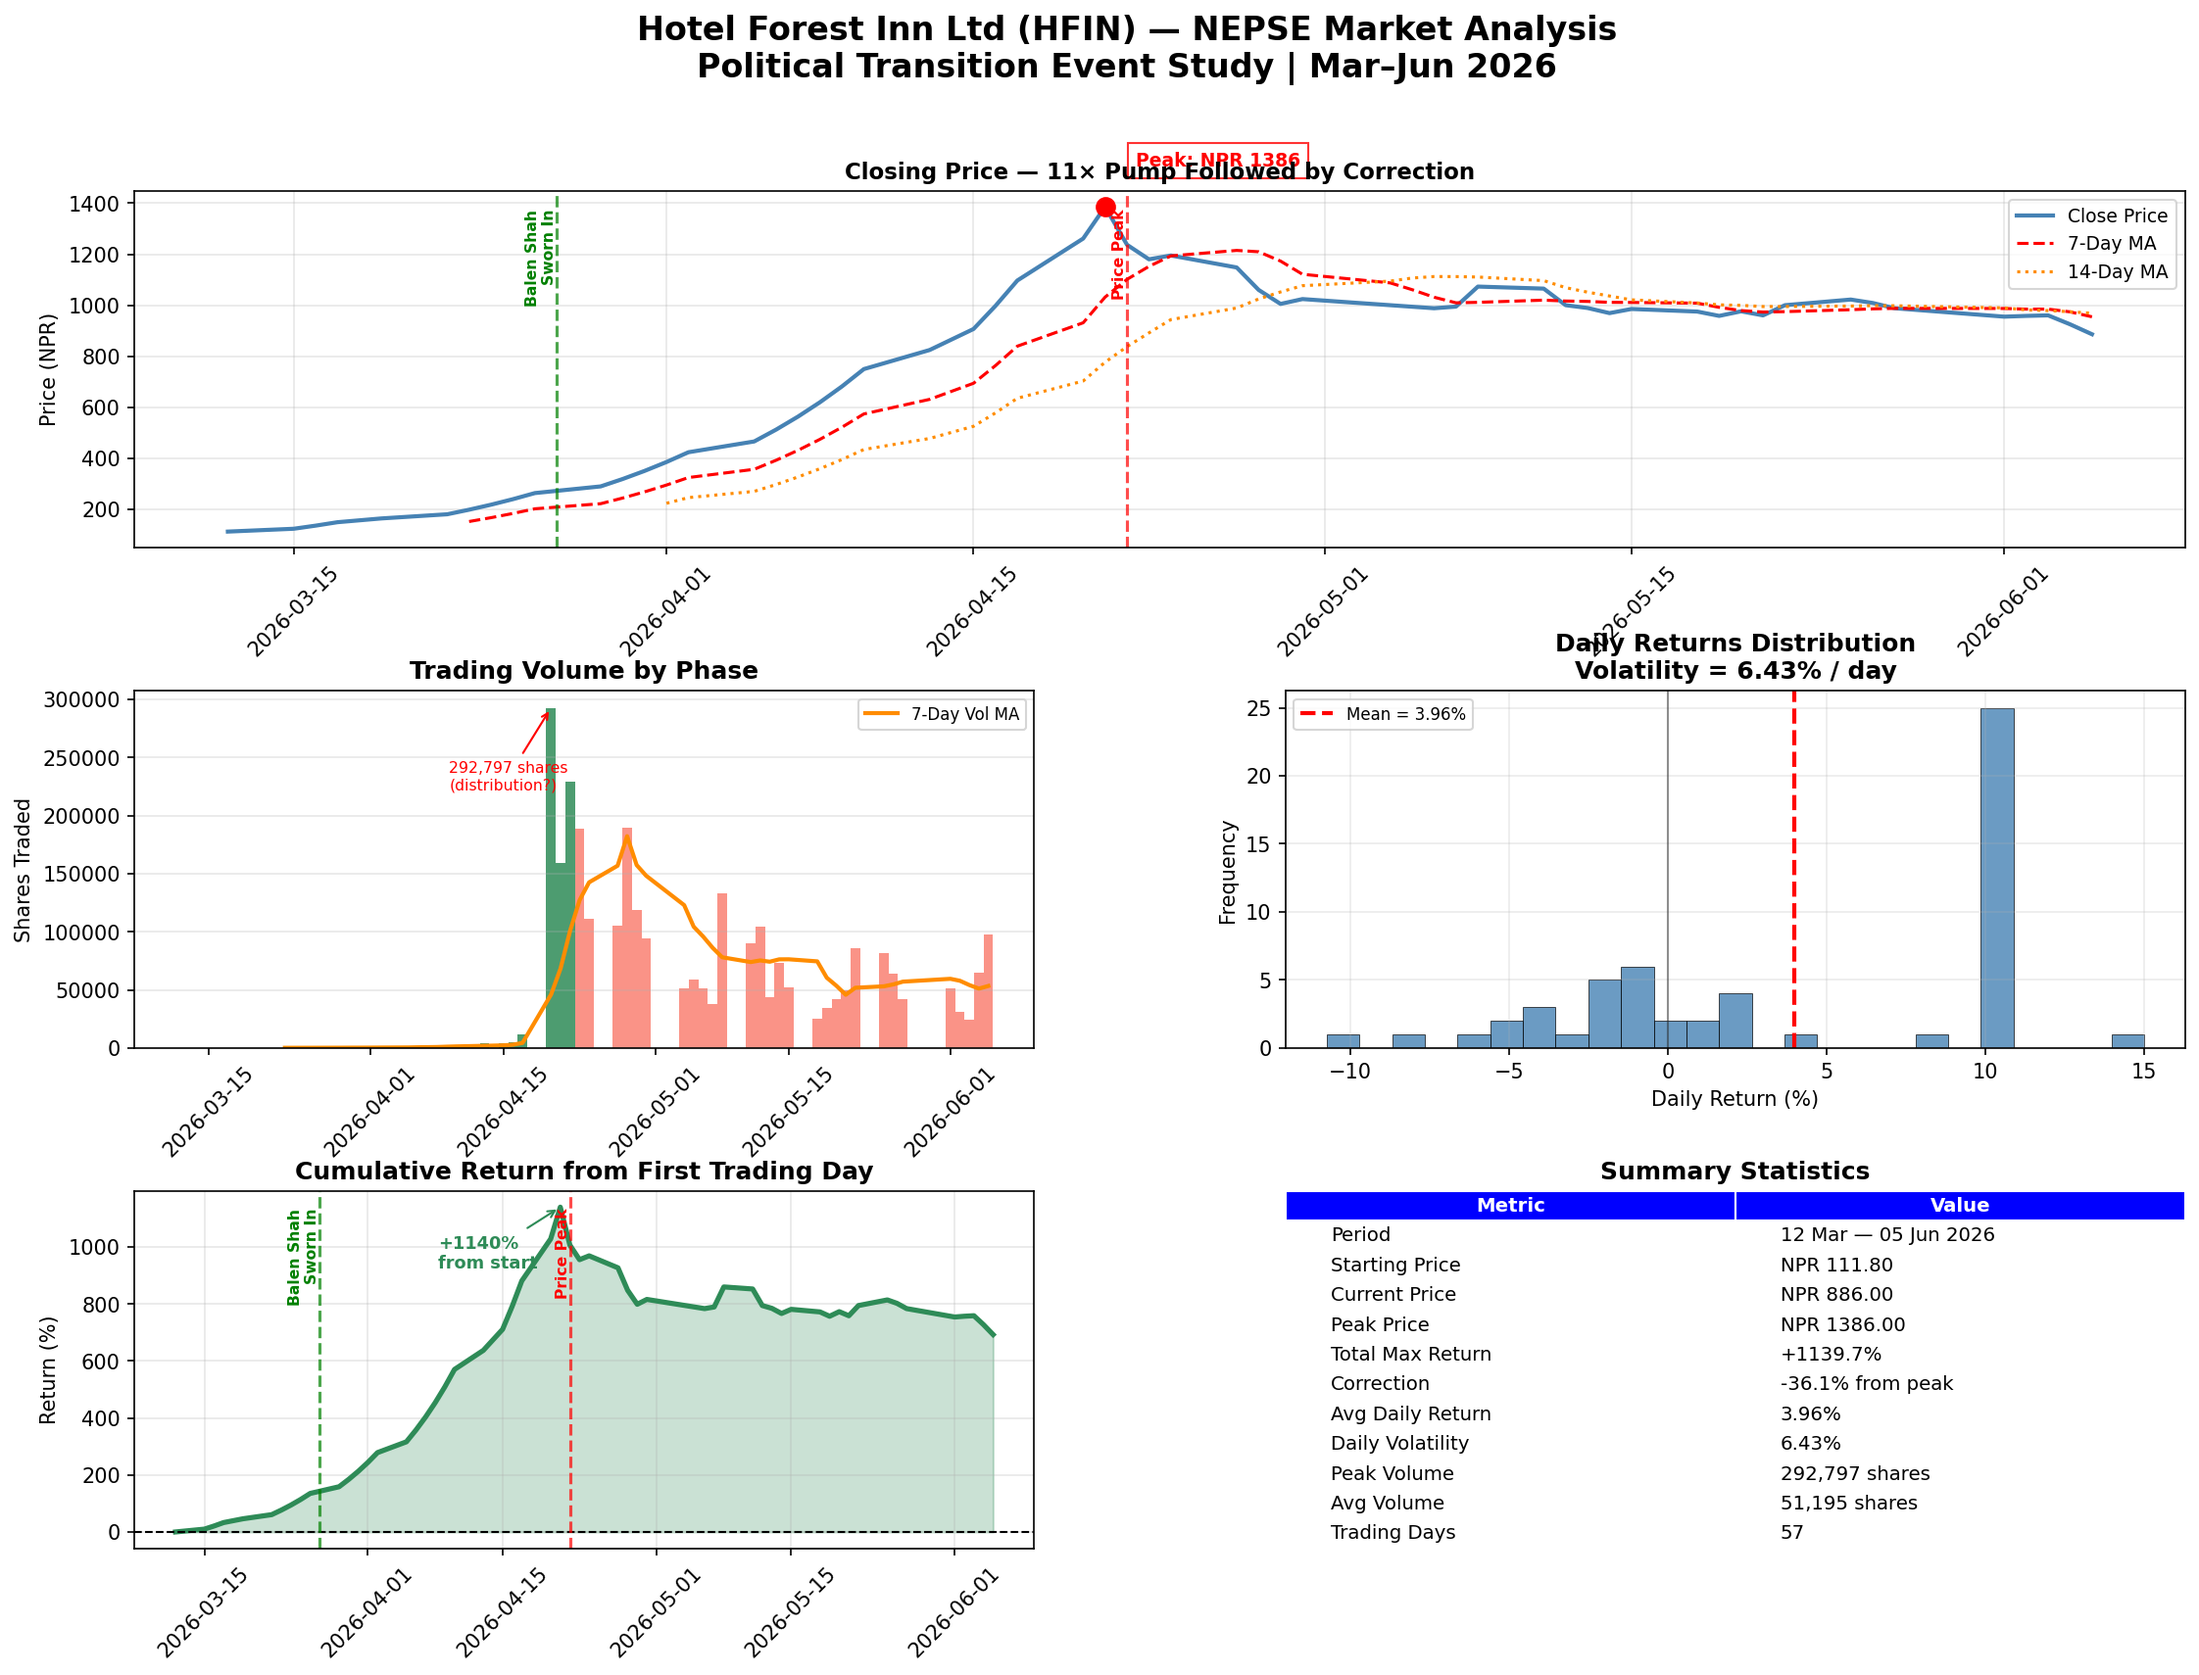
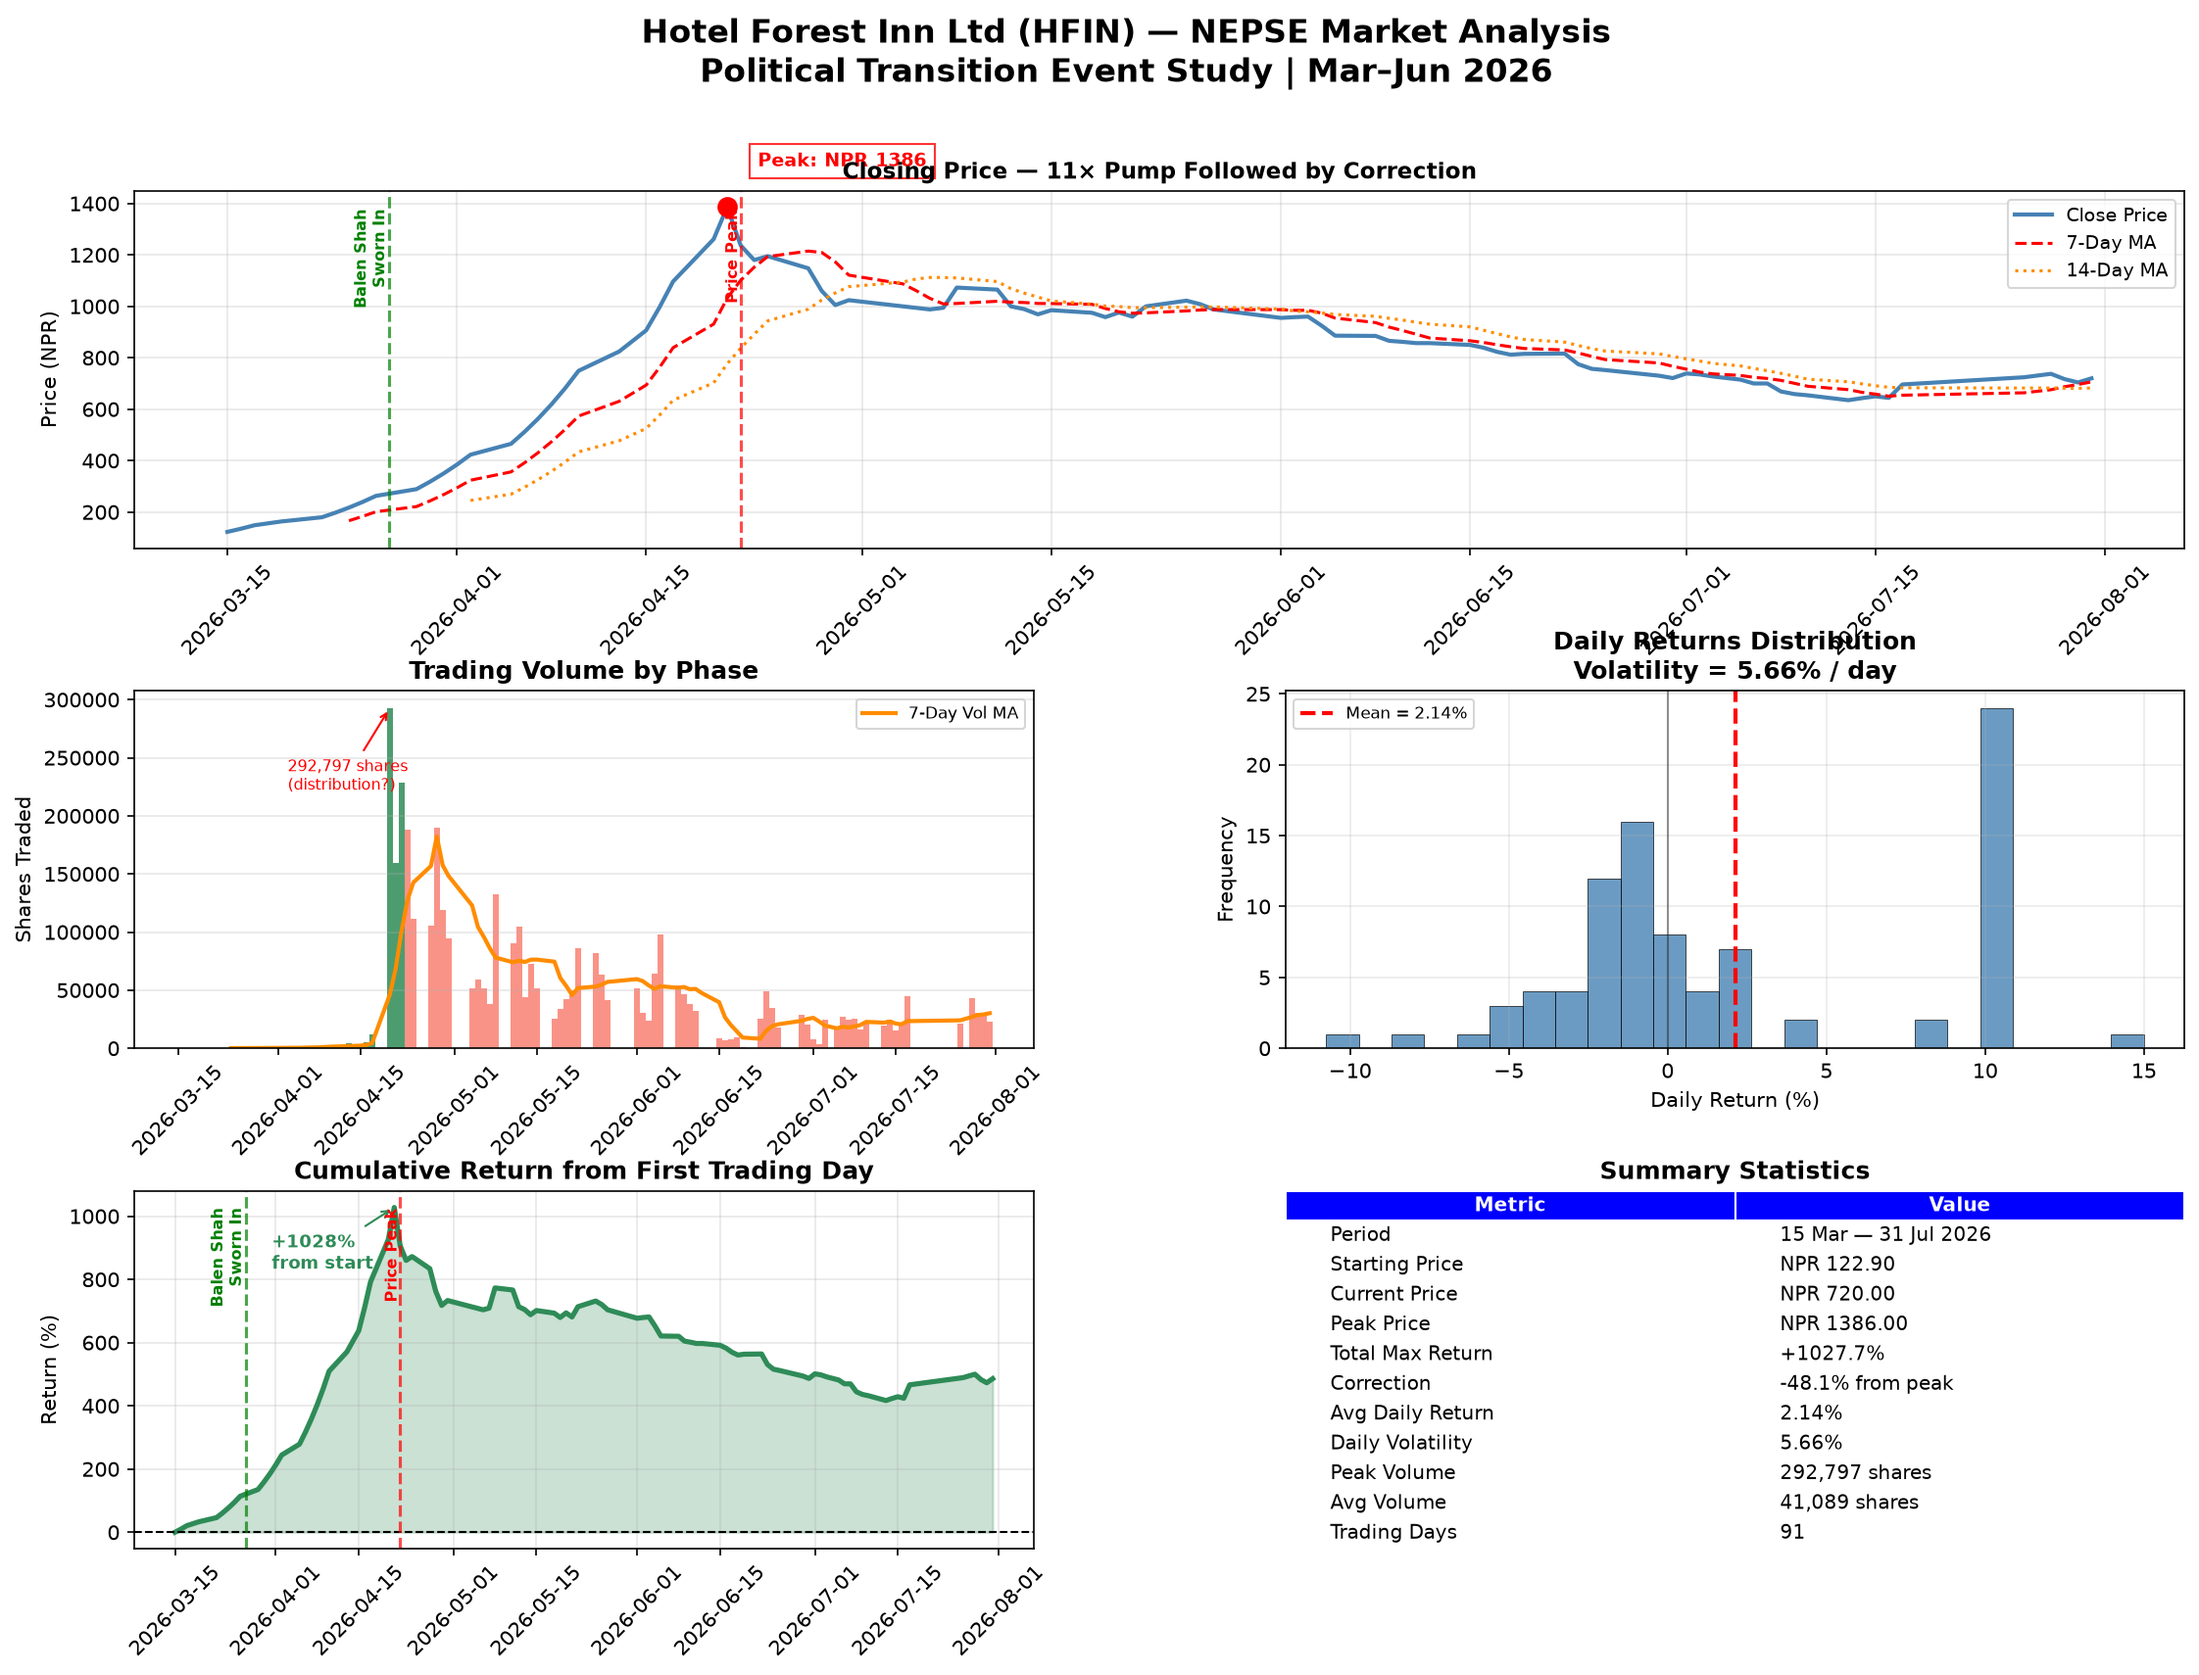
.
.

diff --git a/Hotel_Forest_Analysis.py b/Hotel_Forest_Analysis.py
@@ -4,9 +4,19 @@ import matplotlib.pyplot as ply
 from matplotlib.gridspec import GridSpec
 
 df = pd.read_csv('Stock Trading of Hotel Forest Inn Limited.csv',
+                 comment='/',
                  parse_dates=['BUSINESS DATE'])
 df.columns = ['Date','Close','High','Low','Volume','TradedValue','Trades']
 df = df.sort_values('Date').reset_index(drop=True)
+
+# Coerce numeric columns and filter non-trading days
+df['Close'] = pd.to_numeric(df['Close'], errors='coerce')
+df['High'] = pd.to_numeric(df['High'], errors='coerce')
+df['Low'] = pd.to_numeric(df['Low'], errors='coerce')
+df['Volume'] = pd.to_numeric(df['Volume'], errors='coerce')
+df['TradedValue'] = pd.to_numeric(df['TradedValue'], errors='coerce')
+df['Trades'] = pd.to_numeric(df['Trades'], errors='coerce')
+df = df.dropna(subset=['Close']).reset_index(drop=True)
 
 df['MA7']         = df['Close'].rolling(7).mean()
 df['MA14']        = df['Close'].rolling(14).mean()
